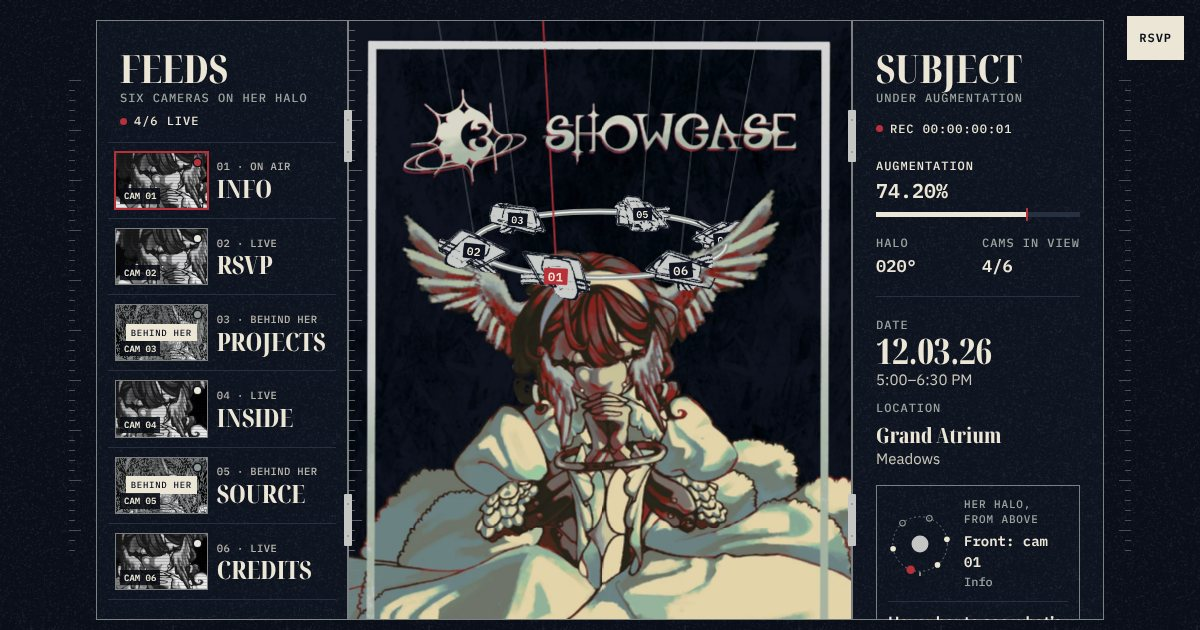
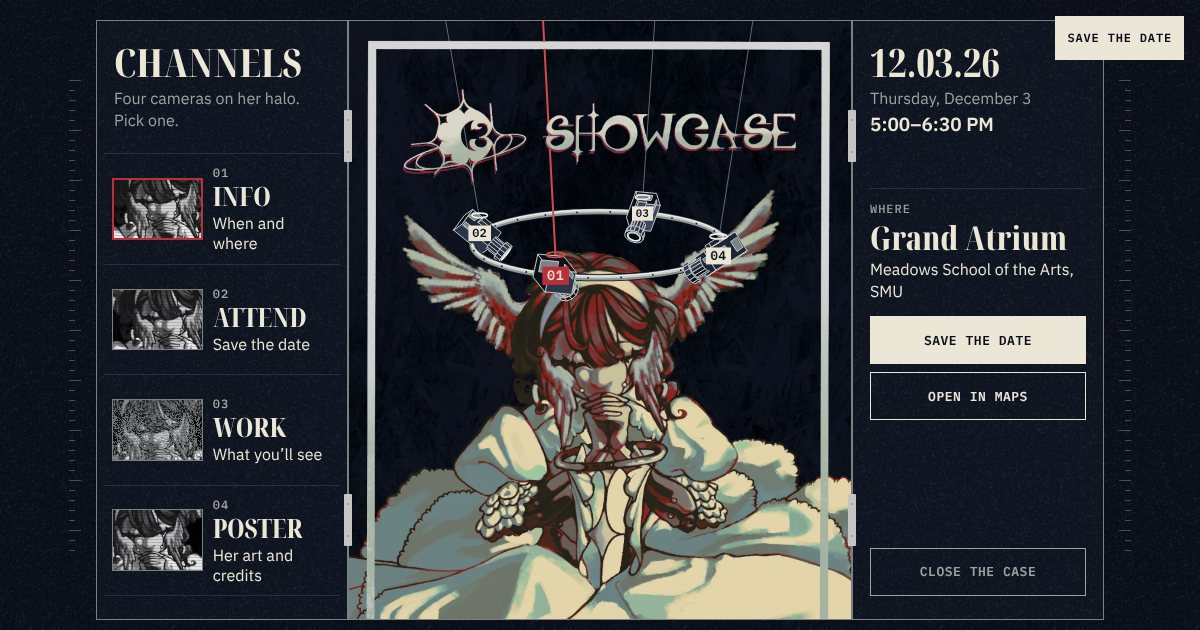
Docs, tests and share image for the event-first site
Claude-Session: https://claude.ai/code/session_0167PWQeyoDSpawXJ6bsqDur

diff --git a/src/styles/channels.css b/src/styles/channels.css
@@ -143,6 +143,14 @@
   --big: clamp(44px, 12cqw, 64px);
 }
 
+/* The narrowest phones: when above where, so the place isn't squeezed into a sliver */
+@container (max-width: 320px) {
+  .dateloc--ch {
+    grid-template-columns: minmax(0, 1fr);
+    gap: 16px;
+  }
+}
+
 /* The work: what kinds of thing are on show, as a list you can read from across a room */
 .kinds {
   margin: 22px 0 0;

diff --git a/BRIEF.md b/BRIEF.md
@@ -1,19 +1,21 @@
 # C3 Showcase: the brief
 
-Written 2026-10-22 for a fresh start, updated 2026-11-10 when the final direction ("the case") was built. The first version (branch `archive/v1`) worked, but it read as ten separate effects layered on a rough placeholder. This page and her art are the guides; anything not fixed here is yours to decide.
+Written 2026-10-22 for a fresh start, updated 2026-11-10 when the final direction ("the case") was built and 2026-11-17 after her final poster and a quality pass that put the event first. The first version (branch `archive/v1`) worked, but it read as ten separate effects layered on a rough placeholder. This page and her art are the guides; anything not fixed here is yours to decide.
 
 ## The job
 
 - Promote the C3 Showcase, the Creative Computing class showcase.
-- Most visitors scan the QR code on her printed poster: on a phone, standing, with a few seconds of attention. The first screen must say what, when and where. RSVP and follow are one tap away.
+- Most visitors scan the QR code on her printed poster: on a phone, standing, with a few seconds of attention. The first screen must say what, when and where. Saving the date is one tap away.
+- Everything on the site is about the event or is her poster come alive. No made-up readouts, no sections about the site itself.
 - The site should feel like her poster came alive. Her art is the star; the site frames it.
 - The live site is `https://ethanjopro.github.io/C3-Showcase-Website/`, deployed from `main` by the existing GitHub Actions workflow. The QR code encodes that URL, so never rename the repo.
 
 ## Where the look comes from
 
 - **Her final poster** (2026-11-17), in `art-src/her.webp` (without the event text) and `art-src/poster.webp` (with it): a red-haired girl with small white wings, praying, a small ring at her hands, in a great ruffled cream dress, on a night-blue ground inside a silver frame, under her C3 SHOWCASE title. Same composition as her 2026-11-10 painting, so every position in `scene.json` still holds. Our camera halo turns above her head (her poster's own text quotes its code).
-- **Her notes** (her feedback on the first mockups): a mostly monochrome palette with red as the only splash; a mood between Alien Stage and Evangelion, techno-angelic horror, an angel augmented or replaced by technology; the halo's cameras (once microphones); an X-ray on hover showing her organs mechanized; a line on the poster bringing people to the site to "see what's inside".
-- **Her title** (`art-src/lettering/title.webp`: the C3 mark and SHOWCASE wordmark), and the camera bodies of her halo, from her drafts in `reference/drafts/`.
+- **Her notes** (her feedback on the first mockups): a mostly monochrome palette with red as the only splash; a mood between Alien Stage and Evangelion, techno-angelic horror, an angel augmented or replaced by technology; the halo's cameras (once microphones); an X-ray on hover showing her organs mechanized; a line bringing people to the site to "see what's inside".
+- **Her title** (`art-src/lettering/title.webp`: the C3 mark and SHOWCASE wordmark).
+- **Ours, drawn in code:** the halo (ring, wires and cameras, `src/rig.ts`) and the drawing inside her X-ray (`src/organs.ts`). Her final poster has no camera halo of its own, so these are no longer stand-ins.
 - **Her moodboard,** in `reference/moodboard/`, summarized in `reference/INSPIRATION.md` §1b. Ideas only: never trace, crop or ship a pin.
 - **The mockups** of the final direction: the "Final direction" page of the "C3 Showcase site mockups" canvas on claude.ai.
 
@@ -21,14 +23,15 @@ Written 2026-10-22 for a fresh start, updated 2026-11-10 when the final directio
 
 1. **The case.** She is on display in a black case.
    - It arrives sealed: two doors with her C3 split down the seam, "Show | Case", the date and location, and a red tape reading "See what's inside" (her poster line). One tap or click opens it.
-   - Inside, she turns out to wear a halo of six cameras, turning slowly above her head. Cameras behind her pass behind her hair and wings; each hangs on a wire from above, like a stage rig.
-   - The six cameras are the navigation: Info, RSVP, Projects, Inside (her X-ray), Source (the site, skin off) and Credits. The same six are a real list: the feeds on the left door (desktop) or the channel keys under her (phone).
+   - Inside, she turns out to wear a halo of cameras, one per channel, turning slowly above her head. Each is a small drawn 3D model that keeps its lens on her; the ones behind her pass behind her hair and wings; each hangs on a wire from above, like a stage rig.
+   - The cameras are the navigation, and every channel is about the event: Info (when and where), Attend (save the date: calendar links, share, and an RSVP button once there's a link), Work (what you'll see) and Poster (her poster to look at and download, and the credits). The same four are a real list: the channels on the left door (desktop) or the keys under her (phone).
    - Hovering a camera, feed or key, or focusing a feed or key, stops the turn and lifts that camera (cameras are for the pointer; the feeds and keys are the same links for the keyboard and screen readers). Choosing one swings its camera round to the front, where it holds while its channel is on air, and turns the middle panel over to that channel's title card, white on black. A quiet "Back to her halo" returns from anywhere; so do Escape and the browser's Back.
-   - Hover her (desktop) or hold her (phone) and an X-ray shows what she's made of.
-2. **Her drawing is the only hand-drawn thing on the site.** Everything around it is crisp and precise, like good print production.
-3. **Her poster's palette, one red.** Her night-blue ground for the page and panels, her frame's silver for every frame line, the ring and the cameras, her cream for type, a sage grey from her dress shadows for quiet text, and her red, lifted a little for screens (`#B8313A`), as the splash. Red marks what's live (the camera on air, its wire, the REC and ON AIR dots, her pump, the augmentation reading), plus three accents in the same spirit: the "See what's inside" tape, the short rule under each channel title, and the marks on a visitor's copy of the poster. Never for small text. This replaces v1's six colorways (and the Colors destination), per her notes. Her painting ships exactly as she painted it; the site took its colours from her, not the other way round (`art-src/grade.json` is off).
+   - Hover her (desktop) or hold her (phone) and an X-ray shows what she's made of: her idea, and the one piece of play on the site.
+   - On desktop the right door is the event itself, always in view: the date, the time, the place, a countdown to the doors opening, save the date and a map link. The countdown is the only live reading on the site, and it's real.
+2. **Her painting is the only hand-painted thing on the site.** Everything around it, our halo and X-ray drawing included, is crisp and precise, like good print production.
+3. **Her poster's palette, one red.** Her night-blue ground for the page and panels, her frame's silver for every frame line, the ring and the line of the cameras, her cream for type, a sage grey from her dress shadows for quiet text, and her red, lifted a little for screens (`#B8313A`), as the splash. Red marks what's live (the camera at the front, its wire and its little halo, the countdown's dot, her pump in the X-ray), plus two accents in the same spirit: the "See what's inside" tape and the short rule under each channel title. Never for small text. This replaces v1's six colorways (and the Colors destination), per her notes. Her painting ships exactly as she painted it; the site took its colours from her, not the other way round (`art-src/grade.json` is off).
 4. **Phone first** (390×844); the desktop view must look finished too.
-5. **"0.0.0"** stands in for the date, location and her name until the real details exist. That's her own placeholder from the poster.
+5. **"0.0.0"** was her placeholder for the date, place and her name. The date and place are real now; her name is still "0.0.0" in `site.json`, and the poster credit is left off until it's filled in.
 6. **Character motion later.** Subtle movement for her (breathing, hair, wings) is welcome once her layers arrive. Plan for it, but don't fake it.
 7. **Her files swap in without code.** Her art lives in `art-src/` (`npm run art` turns it into `src/art/`), and where things sit on her painting is data in `src/art/scene.json`. Words live in `src/content/site.json`.
 
@@ -47,7 +50,5 @@ Everything else, including how the channels are laid out, transitions, the proje
 ## Waiting on her
 
 `OWNER.md` tracks it. The main items:
-- her halo (the ring and six cameras as layers), which replaces ours
-- her drawing of the inside, which replaces the placeholder machine parts in the X-ray
+- the name for her credit
 - a larger export of her painting (853 × 1280 is soft on big screens), and a head, hair and wings mask
-- the name for her credit, and a title for the piece

diff --git a/OWNER.md b/OWNER.md
@@ -11,15 +11,13 @@ Everything waiting on Ethan or the artist, in one place.
 
 | # | Question or action | Needed by | Until then |
 |---|---|---|---|
-| 2 | **About blurb:** one or two lines about the showcase (`src/content/site.json`, `about`) | Any time | "The Creative Computing class puts its work on show: games, apps, music and machines, one booth each." |
-| 3 | Done: 12.3.26 (Thursday, December 3, 2026), with a Google Calendar link (time and rooms are in: 5–6:30 PM, Grand Atrium plus the Jordan Gallery and Dean's Gallery). **Location** (`date`, `location`; also `calendarUrl` and `mapUrl` if you want those links). Put them in `site.json` and every "TBA" label and the "coming soon" line disappear by themselves. | Launch | "0.0.0" labelled "TBA", "coming soon" on Info, no calendar or map links |
-| 4 | **RSVP link** (`rsvpUrl`) | Launch | "RSVP · Opens soon", not a link |
-| 5 | **Follow link:** which platform, and the URL | Launch | Not shown |
-| 20 | **"Read the code on GitHub"** on the Source channel: the repo is private, so the link is hidden (`sourceUrl` is empty). Make the repo public and fill `sourceUrl`, or leave it hidden. | Any time | Hidden |
-| 21 | **Cables:** in the mockups the cameras' cables hung down across her; the build hangs each camera from a wire going up out of frame (a stage rig), so nothing crosses her face. OK, or back to hanging down? | Any time | Wires go up |
-| 22 | **Projects:** the channel shows eight numbered booth screens ("Booth 01" …) and a teaser line. Real titles and links when the class has them (`projects` in `site.json`). | After the show | Teaser |
-| 26 | ~~**Her painting, recoloured.**~~ Superseded 2026-11-17: her final poster ships in her own palette and the site was re-themed to match. Was: **Her painting, recoloured.** It now ships graded into the site's palette (plum lines, lavender greys, paper-white dress) by `art-src/grade.json`; her file is untouched. Happy with it, and is she? `"strength": 0` in that file, then `npm run art`, puts her colours back exactly. | Any time | Graded |
-| 27 | **The pump readout** (the red heartbeat line and "72 bpm") and the augmentation percentage: two testers found them a little generic. Keep, tone down, or replace with something of hers? | Any time | Kept |
+| 30 | **Her name for the poster credit** (`artist` in `site.json`). | Launch | The credit line is left off |
+| 4 | **RSVP link** (`rsvpUrl`), if there will be one. Set it and an RSVP button appears on Attend and in the top bar. | Launch | "Save the date": calendar links and share |
+| 32 | **Check the address** the calendar and map links use: Owen Arts Center, 6101 Bishop Blvd, Dallas, TX 75205 (`address`, `mapUrl`). It's SMU's listed address for the building the Grand Atrium is in. | Launch | That address |
+| 33 | **The about line** (`about`): "…a semester of work on show: games, apps, music and interactive art. Come and play with it." And the four kinds listed on Work (`work.kinds`). Right for this class? | Launch | As written |
+| 22 | **The class's projects** (`work.projects`: a list of `{ title, by, url }`). They show on Work once there are some. | Before the show | The four kinds of work only |
+| 5 | **Follow link:** which platform, and the URL (`followUrl`). | Any time | Not shown |
+| 34 | **The X-ray** stayed (it was her idea) as a hover or press-and-hold on her poster, with no channel of its own. If it's not wanted either, say so and it comes out. | Any time | Kept |
 
 ## Open: ask her (on hold: Ethan will ask when he's ready)
 
@@ -27,17 +25,20 @@ Sessions add to this list but don't wait on it; until she answers, the "Until th
 
 | # | Question | Needed by | Until then |
 |---|---|---|---|
-| 8 | What name or handle goes in her credit line, and does the piece have a title? (`artist`, `piece` in `site.json`) | Any time | "0.0.0", "Poster art" |
-| 23 | **Her halo.** Ours (a ring of six cameras cut from her draft) stands in until she draws hers. Best as layers: the ring's back and front halves, and each camera on its own. | When she finishes it | Ours |
-| 24 | **The inside.** The X-ray is her painting inverted, with placeholder machine parts drawn over it (optics, core chip, bellows, rib plates, a red pump, spine bus, cell). Her own drawing of what's inside would replace the parts. | Any time | Placeholder parts |
 | 25 | **A larger export** of her painting (it's 853 × 1280, a little soft on big screens and phones with sharp displays), and if she can, a mask of her head, hair and wings (the halo passes behind them; ours is cut by hand). | Any time | 853 × 1280, hand-cut mask |
-| 30 | **Her name for the credits** (`artist` in `site.json`): Credits still says "Drawn by · TBA". | Launch | TBA |
 | 31 | **The cooler-blue version** of her painting she sent (426 × 640): an alternative colourway, or just a preview? A full-size export can swap in for `art-src/her.webp`. | Any time | The warm version |
+| 28 | **The ring at her hands.** Is that her halo (taken off, or a second one)? If so, the site could play on it. | Any time | Left as painted |
 | 10 | For character motion later: separate layers for her head, hair, wings, hands and dress. | Later | No character motion |
-| 28 | **The ring at her hands.** Her painting already has a small dark ring held at her hands. Is that her halo (taken off, or a second one)? If so, the site could play on it: say, our camera halo settling into her hands when the case closes. | Any time | Left as painted |
-| 29 | **A stranger X-ray.** Testers liked the X-ray but wanted it weirder. Her own drawing of what's inside her (OWNER #24) is the best way there. | Any time | Placeholder parts |
 
 ## Decided
+
+- **2026-11-17 (built): the quality pass.** Ethan asked for the site to be about the event, for the stand-ins to be replaced with our own drawings, and for it to read more easily.
+  - Four channels, all about the event: Info (when and where), Attend (save the date), Work (what you'll see), Poster (her poster and the credits). Inside, Source, the make-your-own-copy toy and the fake booths are gone, and so is every made-up readout (augmentation, the pump trace, timecodes, "Specimen 01", the radar). They're in git history (before PR #17) if wanted back.
+  - The desktop's right door is the event: date, time, place, a countdown to the doors opening, save the date, open in maps.
+  - The halo is ours and drawn in code (`src/rig.ts`): a silver ring, a wire per camera and four cameras as small 3D models that keep their lenses on her. No longer waiting on her halo layers (was #23).
+  - The X-ray's inside is our finished drawing (`src/organs.ts`): optics, core, spine and ribs, bellows, the red pump, and the mount under her dress, over a ghost of her outline. No longer waiting on her drawing (was #24, #29).
+  - Saving the date works without an RSVP link: Google Calendar, a calendar file (`c3-showcase.ics`), and "send it to a friend".
+  - Link previews and search results carry the date and place.
 
 - **2026-11-17 (built): her final poster and title.** Her final painting replaces the grey one (same composition, so the halo, masks and camera paths still fit). Her title is cut out and laid over the wires; the doors carry her C3 mark and her SHOWCASE split SHOW | CASE at the seam. The whole site moved to her palette: night blue, her frame's silver, cream type, her red. Date and place follow her poster: 12.03.26, 5:00–6:30 PM, Grand Atrium, Meadows. Her poster with the details is a download on RSVP and Credits. The X-ray is now her edges glowing on black (inverting a dark painting gave a white film). Not used: the smaller, cooler-blue version of the painting (kept in `reference/final/`), and the poem lines on her poster (they stay hers, in the download).
 

diff --git a/CLAUDE.md b/CLAUDE.md
@@ -4,12 +4,13 @@ Website for the C3 Showcase, the Creative Computing class showcase. The look com
 
 ## Read first
 - `BRIEF.md`: the job, what's decided, what's yours to decide, and the quality floor. It's the only planning document.
-- Her art: her finished painting and camera line art in `art-src/` (see `art-src/README.md`), her drafts in `reference/drafts/`, and her moodboard in `reference/moodboard/` with `reference/INSPIRATION.md` §1b (ideas only). Never trace, crop or ship moodboard pins, and nothing in `reference/` ships.
+- Her art: her final painting, poster and title in `art-src/` (see `art-src/README.md`), her drafts in `reference/drafts/`, and her moodboard in `reference/moodboard/` with `reference/INSPIRATION.md` §1b (ideas only). Never trace, crop or ship moodboard pins, and nothing in `reference/` ships.
 - v1 (ten separate effects) is on the branch `archive/v1`, with its SPEC and PLAN. History, not instructions.
 
 ## How the site is put together
 - `src/markup.ts` renders the whole page into `index.html` at build time (via `scripts/vite/case-html.ts`), from `src/content/site.json` (words) and `src/art/scene.json` (where things sit on her painting). One DOM serves both layouts; `src/styles/layout.css` turns it into the phone case or the desktop case.
-- `src/main.ts` wires it up: the turning halo (`src/halo.ts`), the doors, hash routing (`#info` … `#credits`, `#halo`), the X-ray, the feeds and the readouts.
+- `src/main.ts` wires it up: the turning halo (`src/halo.ts` for where the cameras are, `src/rig.ts` for drawing the ring, wires and cameras on two canvases), the doors, hash routing (`#info`, `#attend`, `#work`, `#poster`, and `#halo` for her), the X-ray (`src/organs.ts` is the drawing inside her), the feeds and the countdown.
+- `src/event.ts` works out everything from the event's `start` and `end` in `site.json`: both calendar links, the `.ics` file the build writes, the countdown, and the schema.org data in the page head.
 - `npm run art` rebuilds `src/art/` from `art-src/`. Re-run it after replacing any of her files.
 
 ## Working rules
@@ -19,7 +20,7 @@ Website for the C3 Showcase, the Creative Computing class showcase. The look com
 - Commit, push, open a pull request and merge it yourself when a piece of work is done and checked. The owner prefers Claude to handle versioning.
 
 ## Check your work
-- After any visual change: build, capture the site at 390×844 and 1440×900 (`npm run shots`: every state, sealed to credits), look at the screenshots next to her painting and the mockups, and say what's different. Show evidence instead of asserting success. `?still=<degrees>` pins the halo for repeatable captures.
+- After any visual change: build, capture the site at 390×844 and 1440×900 (`npm run shots`: every state, sealed to the poster channel), look at the screenshots next to her painting and the mockups, and say what's different. Show evidence instead of asserting success. `?still=<degrees>` pins the halo for repeatable captures.
 - `npm run check` (types and unit tests) and `npm run test:e2e` (Playwright, both sizes: keyboard path, reduced motion, axe, layout shift, nothing from `reference/` shipping) must pass.
 - Before merging a feature, run the `design-reviewer` subagent, fix its Must-fix findings, then run `/code-review`.
 - Cloud machines render animation in software: judge correctness there, judge smoothness on a real device.

diff --git a/.claude/skills/run-c3-showcase/SKILL.md b/.claude/skills/run-c3-showcase/SKILL.md
@@ -40,15 +40,15 @@ state
 ss phone-open
 tap .key[data-key="1"]
 wait 1300
-ss phone-rsvp
+ss phone-attend
 press Escape
 open desktop ?still=20
 click .seal
 wait 1700
-hover .feed[data-feed="3"]
+hover .feed[data-feed="2"]
 ss desktop-hover
-goto ?still=20#inside
-ss desktop-inside
+goto ?still=20#poster
+ss desktop-poster
 open desktop reduced
 errors
 quit
@@ -71,7 +71,7 @@ Then **look at the PNGs** (Read them).
 | `errors` | Console and page errors so far. |
 
 Useful URLs: `?still=<degrees>` pins the halo at an angle with nothing moving
-(repeatable screenshots); `#info` … `#credits` open a channel directly (the case
+(repeatable screenshots); `#info`, `#attend`, `#work`, `#poster` open a channel directly (the case
 opens itself); `#halo` is the hub. The case remembers it was opened for the tab's
 session (`sessionStorage c3.open`).
 
@@ -83,16 +83,16 @@ on `[data-card]`, wait 300 ms, then check `.xr[data-on]`. A mouse over the card 
 
 ```bash
 npm run shots                 # every state at 390 and 1440, plus -reduced variants
-npm run shots -- --no-build inside rsvp
+npm run shots -- --no-build info attend
 ```
 
 Output: `.shots/<state>@<width>.png` for sealed, open, scan (390), hover (1440),
-info, rsvp, projects, inside, source, credits.
+info, attend, work, poster.
 
 ## Test
 
 ```bash
-npm run check          # tsc + vitest (halo math, markup, title fitting, copy, contrast)
+npm run check          # tsc + vitest (halo math, the drawn rig, the event's dates and calendar file, markup, title fitting, contrast)
 npm run test:e2e       # builds, then Playwright at both sizes: keyboard path, reduced motion, axe, layout shift, reference/ not shipped
 ```
 

diff --git a/art-src/README.md b/art-src/README.md
@@ -11,10 +11,8 @@ own pixels).
 | `poster.webp` | Her final poster with the event details on it. | `public/c3-showcase-poster.webp`, the "Download her poster" link |
 | `grade.json` | An optional recolour of her painting (a gradient map). Off (`strength: 0`): her final palette ships as painted and the site follows it. | (applied to `her.webp`) |
 | `occluder.png` | Alpha mask of her head, hair and wings (the top half only). Our halo's back half passes behind it. Cut by hand from her painting; her own mask layer would replace it. | `occluder.webp` |
-| `cameras/camera-NN-line.png` | The six camera bodies' line art, cut from her draft's halo. NN is the channel: 01 Info, 02 RSVP, 03 Projects, 04 Inside, 05 Source, 06 Credits. | `camera-NN.webp`: a navy line over a body in her frame's silver |
-| `cameras/camera-NN-fill.png` | The solid shape of each camera body (closed and filled from the line art). | (the body under the line) |
 | `lettering/title.webp` | Her final title on transparent (1200 × 600): the C3 mark and her SHOWCASE wordmark. | `mark.webp` (the doors' C3), `word-l.webp` / `word-r.webp` (SHOW and CASE, one per door) |
 | `textures/grain.png`, `static.png` | Paper grain and TV static (ours, not hers). | `.webp` |
 
-When she draws her own halo, the ring is still drawn in code (`src/markup.ts`, `ellipse()`); give
-her ring the same ellipse in `scene.json` (`halo.cx/cy/rx/ry`) or swap the SVG ring for her layers.
+The halo (ring, wires and cameras) and the drawing inside her X-ray are ours, drawn in code
+(`src/rig.ts`, `src/organs.ts`); where the ring sits on her painting is `halo` in `scene.json`.

diff --git a/.claude/agents/design-reviewer.md b/.claude/agents/design-reviewer.md
@@ -11,7 +11,7 @@ You review work you did not write. Do not edit any files.
 2. Run `git diff main...HEAD --stat`, then read the changed files.
 3. Build the site and capture it at 390×844 and 1440×900 (`npm run shots` if it exists). Look at the screenshots next to her drafts.
 4. Check, in this order:
-   - **Her art:** it's the star, framed rather than competed with. The interface is crisp; nothing imitates her hand-drawn line. Colors come from her six colorways. Nothing from `reference/` ends up in the build.
+   - **Her art:** it's the star, framed rather than competed with. The interface is crisp; nothing imitates her hand-drawn line. Colors come from her final poster (BRIEF.md, Decided 3). Nothing from `reference/` ends up in the build.
    - **The decisions in BRIEF.md:** the hub and halo navigation behave as described.
    - **The floor:** contrast of at least 4.5:1 in every colorway, a keyboard and screen-reader path to every destination, reduced motion fully respected, no layout shift, and a reasonable phone load.
    - **Performance hazards:** work done every frame that doesn't need to be, listeners or timers that are never cleaned up, oversized images.
